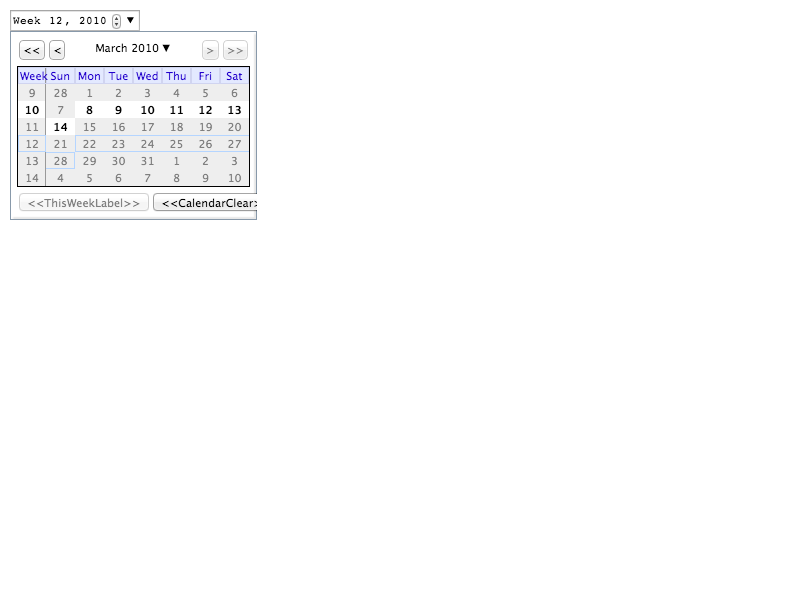
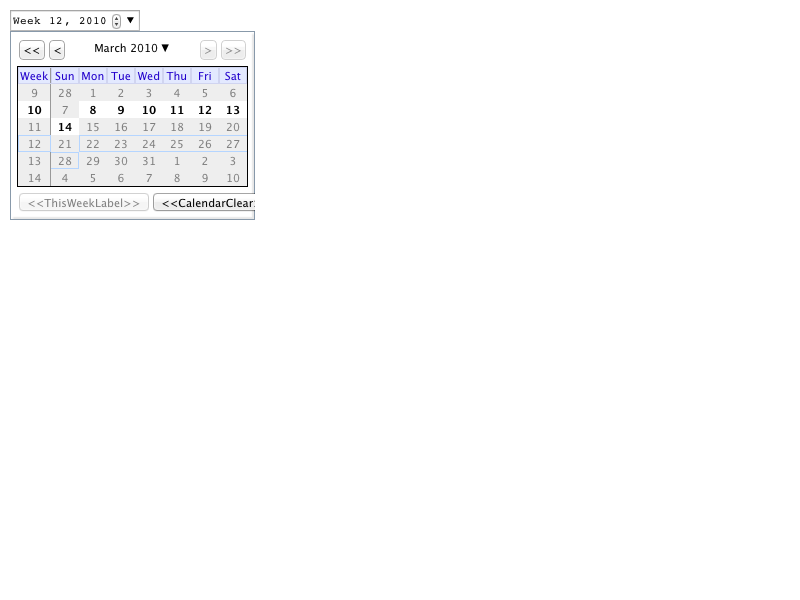
Week picker width is too small https://bugs.webkit.org/show_bug.cgi?id=102766
Reviewed by Kent Tamura.

Source/WebCore:

The width of week picker was too small because we were forgetting about
the week number column when calculating the desired width.

No new tests. Covered by week-picker-appearance*.html.

* Resources/pagepopups/calendarPicker.css:
(.week-mode .week-column): Needs to be table-cell.
* Resources/pagepopups/calendarPicker.js:
(CalendarPicker.prototype.fixWindowSize):

LayoutTests:

* platform/chromium-mac/platform/chromium/fast/forms/calendar-picker/week-picker-appearance-expected.png:
* platform/chromium-mac/platform/chromium/fast/forms/calendar-picker/week-picker-appearance-step-expected.png:
* platform/chromium/TestExpectations:

git-svn-id: https://svn.webkit.org/repository/webkit/trunk@135274 268f45cc-cd09-0410-ab3c-d52691b4dbfc

diff --git a/Source/WebCore/Resources/pagepopups/calendarPicker.js b/Source/WebCore/Resources/pagepopups/calendarPicker.js
@@ -742,20 +742,24 @@ CalendarPicker.prototype.fixWindowSize = function() {
     var daysAreaElement = this._element.getElementsByClassName(ClassNames.DaysArea)[0];
     var headers = daysAreaElement.getElementsByClassName(ClassNames.DayLabel);
     var maxCellWidth = 0;
-    for (var i = 0; i < headers.length; ++i) {
+    for (var i = 1; i < headers.length; ++i) {
         if (maxCellWidth < headers[i].offsetWidth)
             maxCellWidth = headers[i].offsetWidth;
     }
+    var weekColumnWidth = headers[0].offsetWidth;
+    if (maxCellWidth > weekColumnWidth)
+        weekColumnWidth = maxCellWidth;
+    headers[0].style.width = weekColumnWidth + "px";
     var DaysAreaContainerBorder = 1;
     var yearMonthEnd;
     var daysAreaEnd;
     if (global.params.isCalendarRTL) {
         var startOffset = this._element.offsetLeft + this._element.offsetWidth;
         yearMonthEnd = startOffset - yearMonthRightElement.offsetLeft;
-        daysAreaEnd = startOffset - (daysAreaElement.offsetLeft + daysAreaElement.offsetWidth) + maxCellWidth * 7 + DaysAreaContainerBorder;
+        daysAreaEnd = startOffset - (daysAreaElement.offsetLeft + daysAreaElement.offsetWidth) + weekColumnWidth + maxCellWidth * 7 + DaysAreaContainerBorder;
     } else {
         yearMonthEnd = yearMonthRightElement.offsetLeft + yearMonthRightElement.offsetWidth;
-        daysAreaEnd = daysAreaElement.offsetLeft + maxCellWidth * 7 + DaysAreaContainerBorder;
+        daysAreaEnd = daysAreaElement.offsetLeft + weekColumnWidth + maxCellWidth * 7 + DaysAreaContainerBorder;
     }
     var maxEnd = Math.max(yearMonthEnd, daysAreaEnd);
     var MainPadding = 6; // FIXME: Fix name.

diff --git a/Source/WebCore/Resources/pagepopups/calendarPicker.css b/Source/WebCore/Resources/pagepopups/calendarPicker.css
@@ -269,7 +269,7 @@ body {
 }
 
 .week-mode .week-column {
-    display: block;
+    display: table-cell;
     border-right: 1px solid #999;
     padding-right: 1px;
 }
